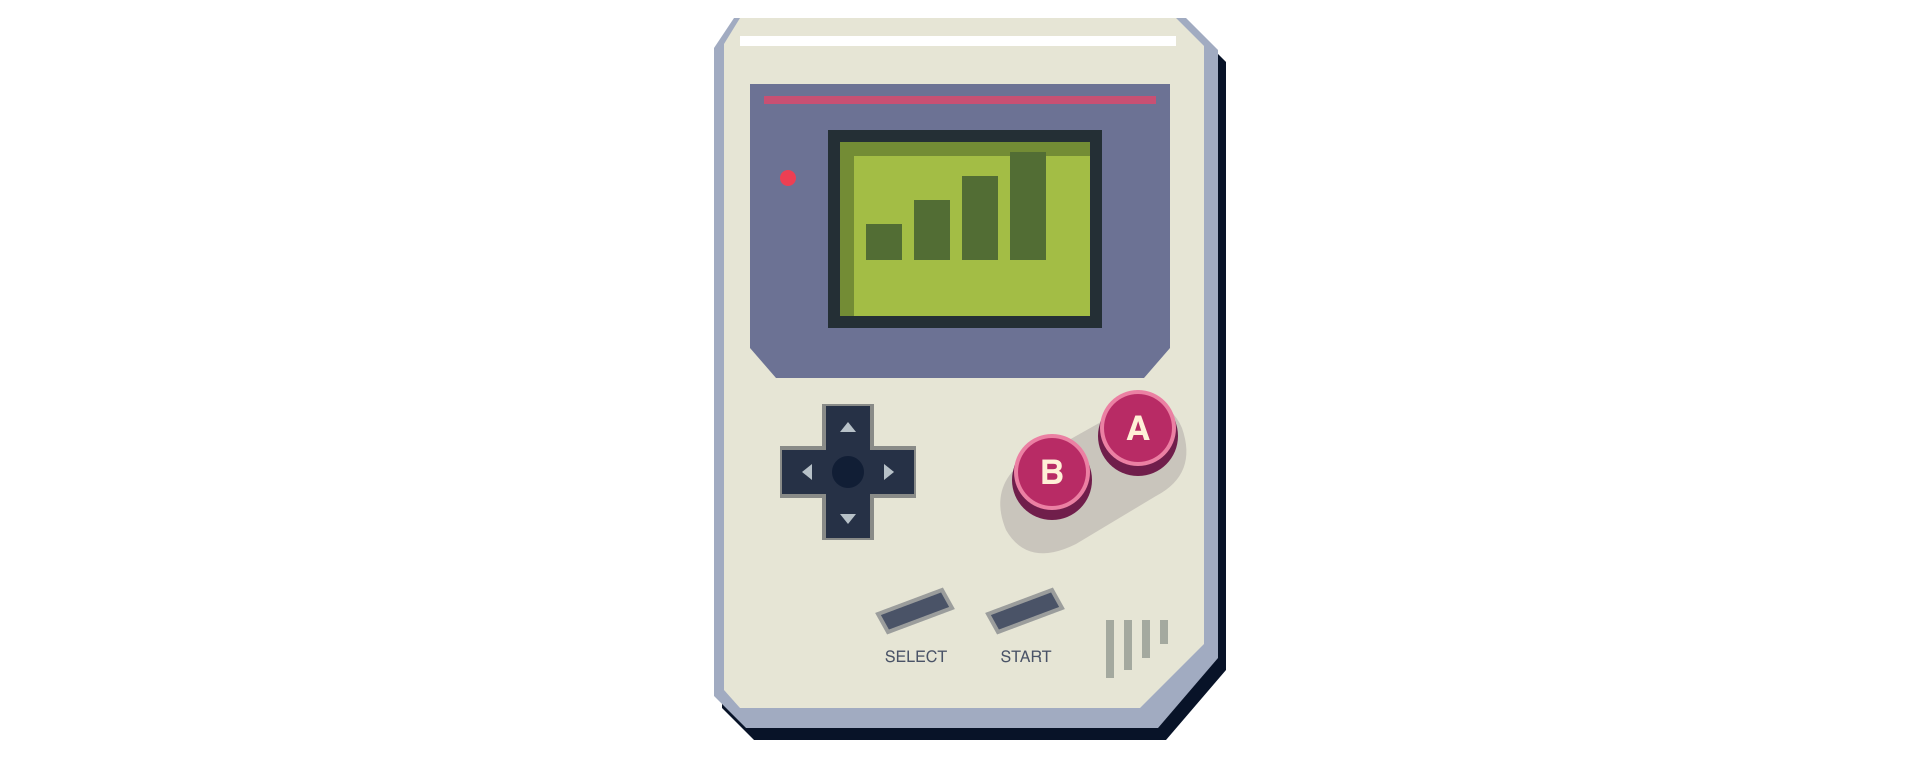
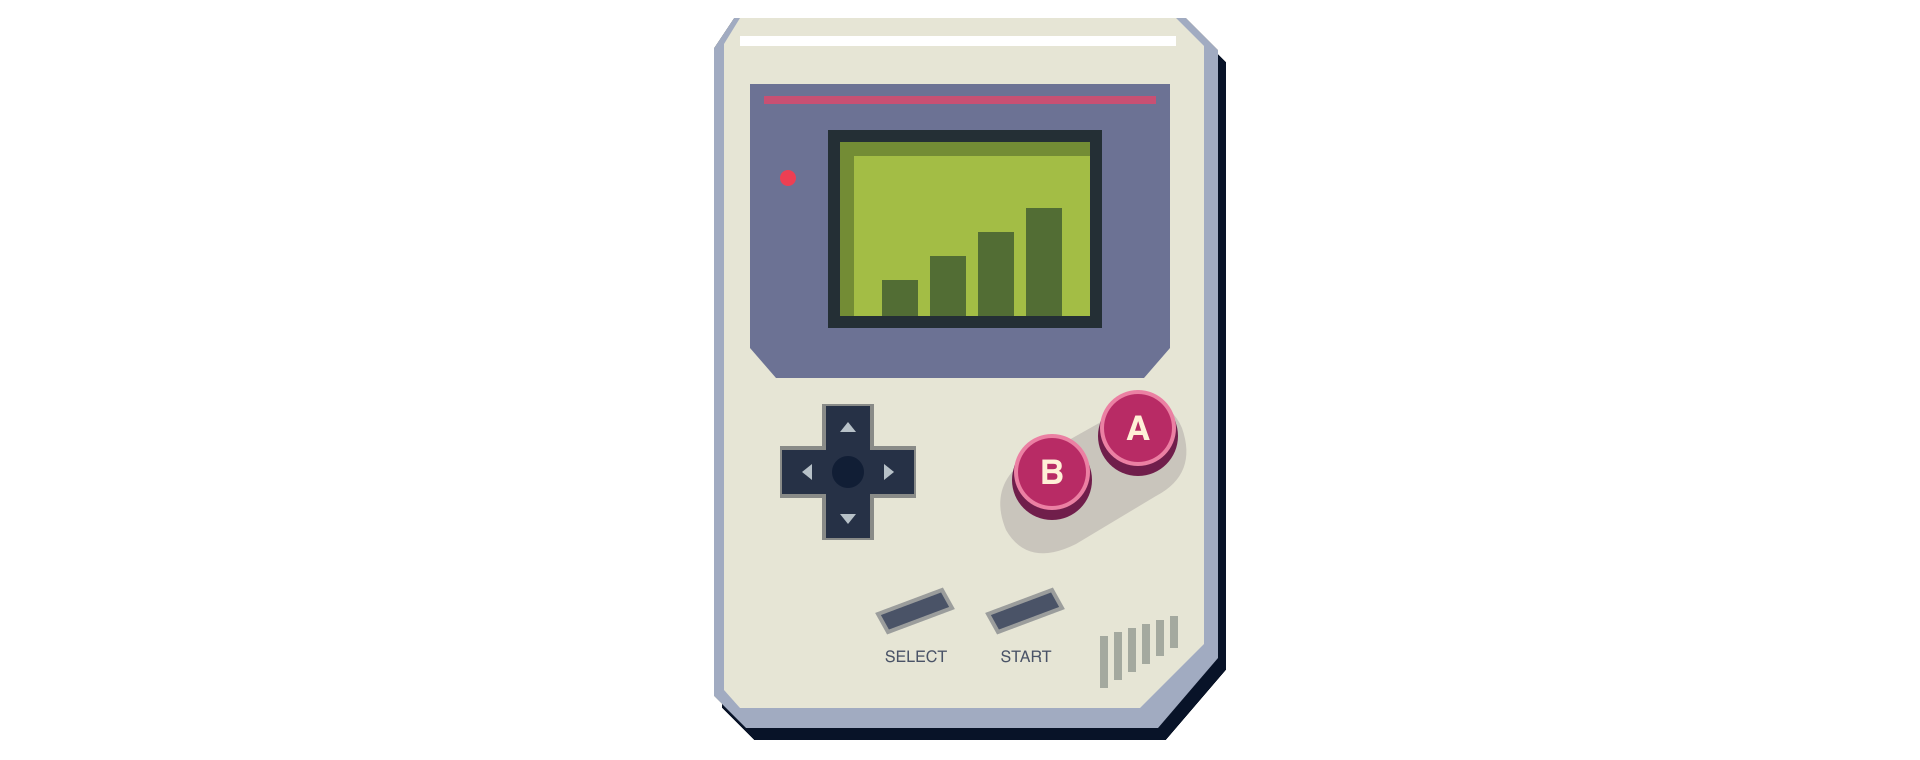
Fix the bar chart and the speaker grille on the Game Boy drawing
The Game Boy drawing has two groups of vertical bars, the bar chart on
the screen and the speaker grille in the corner, and both were wrong.

The bar chart ended 28 pixels above the bottom of the green screen
area, with an empty band below it. It was 6 pixels from the left bevel
and 22 from the right one, and its tallest bar reached 2 pixels into
the inset strip along the top. We moved it down to the bottom and 8
pixels to the right, which centres it inside the bevel and clears the
tall bar.

The speaker grille had four slits that hung from a flat top edge and
tapered along a diagonal that matched nothing else, with 18 pixels of
space left to the corner. It now has six slits, ending along the
chamfer of the corner, as low and as far right as the chamfer allows.
The slits stay vertical, because we had no reference for the angle of
the slits on a DMG.

With render_controllers.py --check we did not see the change. Its
threshold is three percent of the canvas and the move was 1.3 percent,
and five of the other nine pads already differ from their PNG files by
more than three percent, because the PNG files were not made with rsvg.
The overlay digests changed for the Game Boy only, and we recorded them
again.

Four scripts contained the path
desktop/src-tauri/target/release/rominabox-cli. The binary is there
only when CARGO_TARGET_DIR is unset, and we set it in every worktree,
so in a worktree the overlay, state and placement tests reported the
[…]

Changed region(s): [[0.4375, 0.1816, 0.5625, 0.4237], [0.5625, 0.8171, 0.625, 0.9079]]

diff --git a/scripts/built.py b/scripts/built.py
@@ -1,0 +1,27 @@
+"""The path where cargo put a binary we built in this repository.
+
+Parallel checkouts share one cargo target directory, which we export as
+`CARGO_TARGET_DIR` in `scripts/worktree.py env`. The build output goes to
+`desktop/src-tauri/target` only when that variable is unset. Looking only
+there would fail in every worktree, and in the overlay, states and placement
+tests we would report the binary as "not built" however recently we built it.
+
+In every script we get the path from here instead of writing it out.
+"""
+
+from __future__ import annotations
+
+import os
+from pathlib import Path
+
+ROOT = Path(__file__).resolve().parent.parent
+DEFAULT_TARGET = ROOT / "desktop/src-tauri/target"
+
+
+def target_dir() -> Path:
+    declared = os.environ.get("CARGO_TARGET_DIR")
+    return Path(declared) if declared else DEFAULT_TARGET
+
+
+def binary(name: str, profile: str = "release") -> Path:
+    return target_dir() / profile / name

diff --git a/scripts/menu_states.py b/scripts/menu_states.py
@@ -35,6 +35,8 @@ import subprocess
 import sys
 from pathlib import Path
 
+from built import binary
+
 ROOT = Path(__file__).resolve().parent.parent
 # The freshly built helper when there is one, because a staged copy is a
 # build output that can be older than a change to the helper.
@@ -45,7 +47,7 @@ DESIGN = ROOT / "integrations/designs/native"
 ARTWORK = ROOT / "desktop/assets/controllers"
 STATES = ROOT / "scripts/fixtures/menu-states.json"
 DIGESTS = ROOT / "scripts/fixtures/menu-state-digests.json"
-CLI = ROOT / "desktop/src-tauri/target/release/rominabox-cli"
+CLI = binary("rominabox-cli")
 
 # The window size of an exported game, because at any other size a rendered
 # state is not what a player sees.

diff --git a/scripts/menu_shots.py b/scripts/menu_shots.py
@@ -37,6 +37,8 @@ import subprocess
 import sys
 from pathlib import Path
 
+from built import binary
+
 ROOT = Path(__file__).resolve().parent.parent
 SHOTS = ROOT / "scripts/fixtures/menu-shots.json"
 DIGESTS = ROOT / "scripts/fixtures/menu-shot-digests.json"
@@ -124,7 +126,7 @@ def take(app: Path, name: str, script: list[str], output: Path) -> str:
 BUILT_PLAYER = ROOT / "work/fork-build-20260920/retroarch/retroarch"
 KIT = ROOT / "desktop/src-tauri/resources/runtime"
 DESIGN = ROOT / "integrations/designs/native"
-CLI = ROOT / "desktop/src-tauri/target/release/rominabox-cli"
+CLI = binary("rominabox-cli")
 
 
 def build_a_game(rom: Path, workspace: Path, system: str = "megadrive") -> Path:

diff --git a/scripts/render_controllers.py b/scripts/render_controllers.py
@@ -31,12 +31,14 @@ import subprocess
 import sys
 from pathlib import Path
 
+from built import binary
+
 ROOT = Path(__file__).resolve().parent.parent
 ARTWORK = ROOT / "desktop/assets/controllers"
 DESIGN = ROOT / "integrations/designs/native/design.json"
 DESIGN_DIR = DESIGN.parent
 CONTROLS = ROOT / "desktop/controls.json"
-CLI = ROOT / "desktop/src-tauri/target/release/rominabox-cli"
+CLI = binary("rominabox-cli")
 BASELINE = ROOT / "scripts/fixtures/controller-digests.json"
 
 # We render at twice the scene size so the artwork stays crisp on a retina

diff --git a/scripts/render_control_overlays.py b/scripts/render_control_overlays.py
@@ -29,6 +29,8 @@ from pathlib import Path
 
 from PIL import Image, ImageDraw, ImageFont
 
+from built import binary
+
 ROOT = Path(__file__).resolve().parent.parent
 CONTROLS = ROOT / "desktop/controls.json"
 ARTWORK = ROOT / "desktop/assets/controllers"
@@ -89,7 +91,7 @@ def _font(size: int) -> ImageFont.ImageFont:
     return ImageFont.load_default()
 
 
-CLI = ROOT / "desktop/src-tauri/target/release/rominabox-cli"
+CLI = binary("rominabox-cli")
 
 
 def scene_geometry(profile_id: str) -> dict:
